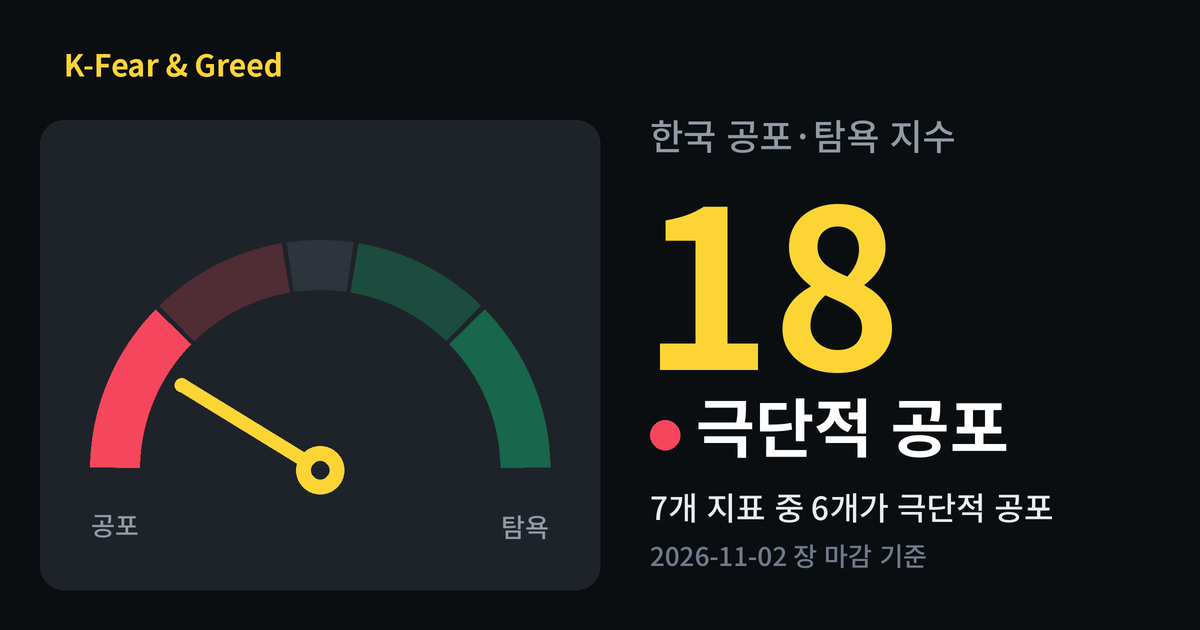
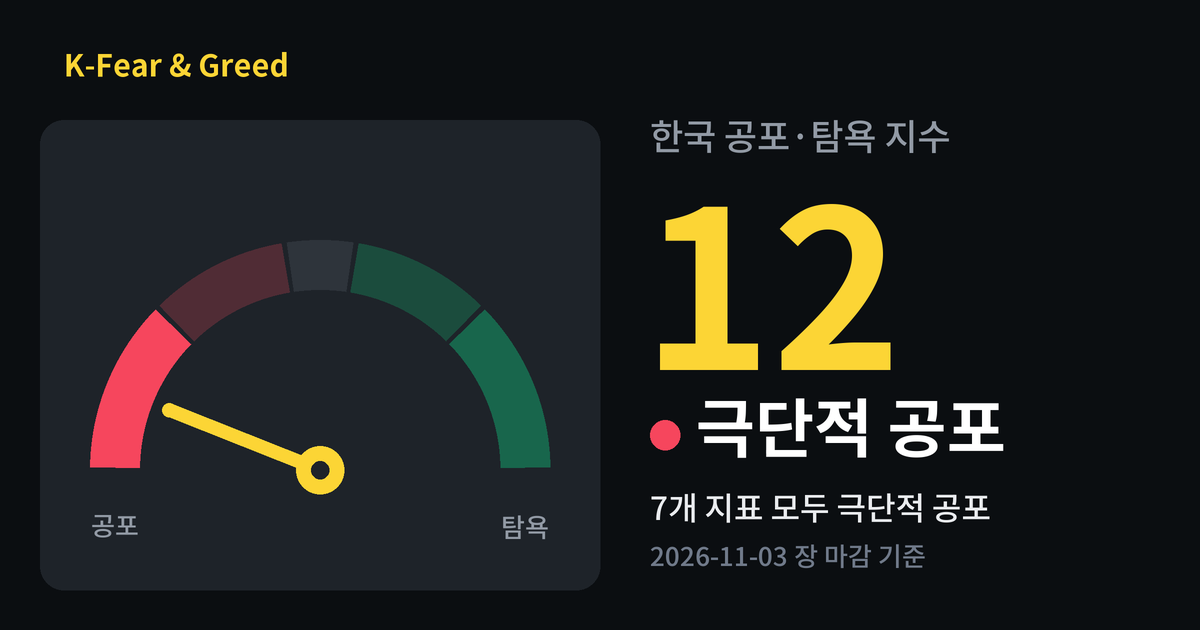
시장 변동성: 1000일(약 4년) 평균 대비, 점수도 1000일 순위
장기 평균 대비 현재 변동성을 보려고 기준선과 순위 구간을 모두 1000거래일로 바꿈.
1000일 평균을 2017년부터 쓰려고 KOSPI 지수만 2012년부터 받는다.

diff --git a/docs/index.html b/docs/index.html
@@ -4,21 +4,21 @@
 <meta charset="utf-8">
 <meta name="viewport" content="width=device-width, initial-scale=1">
 <title>한국 공포·탐욕 지수</title>
-<meta name="description" content="2026-11-02 장 마감 기준 · 7개 지표 중 6개가 극단적 공포. 시장 전반에 두려움이 크게 퍼져 있어요.">
+<meta name="description" content="2026-11-03 장 마감 기준 · 7개 지표 모두 극단적 공포. 시장 전반에 두려움이 크게 퍼져 있어요.">
 <!-- 링크 미리보기: 아래 content 값은 build.py 가 매일 오늘 점수로 바꿔 쓴다 -->
 <meta property="og:type" content="website">
 <meta property="og:site_name" content="K-Fear &amp; Greed">
 <meta property="og:locale" content="ko_KR">
-<meta property="og:title" content="한국 공포·탐욕 지수 18점 · 극단적 공포">
-<meta property="og:description" content="2026-11-02 장 마감 기준 · 7개 지표 중 6개가 극단적 공포. 시장 전반에 두려움이 크게 퍼져 있어요.">
+<meta property="og:title" content="한국 공포·탐욕 지수 12점 · 극단적 공포">
+<meta property="og:description" content="2026-11-03 장 마감 기준 · 7개 지표 모두 극단적 공포. 시장 전반에 두려움이 크게 퍼져 있어요.">
 <meta property="og:url" content="https://korea-feargreed.vercel.app/">
-<meta property="og:image" content="https://korea-feargreed.vercel.app/og.png?v=20261102">
+<meta property="og:image" content="https://korea-feargreed.vercel.app/og.png?v=20261103">
 <meta property="og:image:width" content="1200">
 <meta property="og:image:height" content="630">
 <meta name="twitter:card" content="summary_large_image">
-<meta name="twitter:title" content="한국 공포·탐욕 지수 18점 · 극단적 공포">
-<meta name="twitter:description" content="2026-11-02 장 마감 기준 · 7개 지표 중 6개가 극단적 공포. 시장 전반에 두려움이 크게 퍼져 있어요.">
-<meta name="twitter:image" content="https://korea-feargreed.vercel.app/og.png?v=20261102">
+<meta name="twitter:title" content="한국 공포·탐욕 지수 12점 · 극단적 공포">
+<meta name="twitter:description" content="2026-11-03 장 마감 기준 · 7개 지표 모두 극단적 공포. 시장 전반에 두려움이 크게 퍼져 있어요.">
+<meta name="twitter:image" content="https://korea-feargreed.vercel.app/og.png?v=20261103">
 <link rel="icon" href="favicon.svg" type="image/svg+xml">
 <link rel="icon" href="favicon-32.png" type="image/png" sizes="32x32">
 <link rel="apple-touch-icon" href="apple-touch-icon.png">
@@ -210,7 +210,7 @@ footer .in { max-width: 1280px; margin: 0 auto; padding: 24px 16px 40px; font-si
     <h2>계산 방법</h2>
     <ol>
       <li>각 지표의 원시값을 매일 계산합니다. 값이 클수록 탐욕이 되도록 방향을 맞춥니다(변동성·신용 스프레드는 반대).</li>
-      <li>최근 1년(252거래일) 안에서 오늘 값이 몇 번째 백분위인지를 0~100점으로 씁니다.</li>
+      <li>최근 1년(252거래일) 안에서 오늘 값이 몇 번째 백분위인지를 0~100점으로 씁니다. 시장 변동성만은 장기 평균과 비교하려고 약 4년(1000거래일)을 기준으로 합니다.</li>
       <li>지표 점수를 똑같은 비중으로 평균한 값이 최종 지수입니다.</li>
       <li>평일 16:30~19:00 사이(장 마감 반영)와 다음 날 08:30~08:45 사이(회사채 금리 반영 후 확정)에 갱신됩니다.</li>
     </ol>

diff --git a/kfg/indicators.py b/kfg/indicators.py
@@ -7,6 +7,9 @@ import pandas as pd
 
 WINDOW = 252  # 점수 환산에 쓰는 과거 구간(약 1년)
 MIN_PERIODS = 120
+# 지표별로 다른 구간을 쓰는 경우. 시장 변동성은 "장기 평균 대비 지금"을 보려고 약 4년으로 순위를 매긴다
+WINDOWS = {"volatility": (1000, 250)}
+LONG_VOL_DAYS = 1000
 
 LABELS = [(25, "극단적 공포"), (45, "공포"), (55, "중립"), (75, "탐욕"), (101, "극단적 탐욕")]
 
@@ -15,8 +18,8 @@ def label(score: float) -> str:
     return next(name for cut, name in LABELS if score < cut)
 
 
-def percentile_score(x: pd.Series) -> pd.Series:
-    return x.rolling(WINDOW, min_periods=MIN_PERIODS).rank(pct=True) * 100
+def percentile_score(x: pd.Series, window: int = WINDOW, min_periods: int = MIN_PERIODS) -> pd.Series:
+    return x.rolling(window, min_periods=min_periods).rank(pct=True) * 100
 
 
 def momentum(kospi: pd.Series) -> pd.Series:
@@ -60,9 +63,9 @@ def down_volume_share(close: pd.DataFrame, volume: pd.DataFrame, days: int = 10)
 
 
 def volatility(kospi: pd.Series) -> pd.Series:
-    """KOSPI 20일 실현변동성이 50일 평균보다 몇 % 높은가. (VKOSPI 대용, 높을수록 공포)"""
+    """KOSPI 20일 실현변동성이 1000일(약 4년) 평균보다 몇 % 높은가. (VKOSPI 대용, 높을수록 공포)"""
     vol = np.log(kospi).diff().rolling(20).std() * np.sqrt(252) * 100
-    return (vol / vol.rolling(50).mean() - 1) * 100
+    return (vol / vol.rolling(LONG_VOL_DAYS).mean() - 1) * 100
 
 
 def safe_haven(kospi: pd.Series, bond: pd.Series) -> pd.Series:
@@ -80,7 +83,7 @@ SPECS = {
     "momentum": ("시장 모멘텀", "KOSPI와 125일 이동평균의 괴리율", "%", 1),
     "high_low": ("주가 강도", "52주 신고가 − 신저가 종목 비율 (KOSPI+KOSDAQ)", "%", 1),
     "breadth": ("시장 폭", "McClellan 거래량 합산지수 (상승·하락 종목 거래량)", "", 1),
-    "volatility": ("시장 변동성", "KOSPI 20일 실현변동성의 50일 평균 대비 수준", "%", -1),
+    "volatility": ("시장 변동성", "KOSPI 20일 실현변동성의 1000일(약 4년) 평균 대비 수준", "%", -1),
     "inverse": ("하락 베팅 수요", "인버스 ÷ 레버리지 ETF 거래대금 5일 합계 (풋/콜 비율 대용)", "배", -1),
     "safe_haven": ("안전자산 수요", "KOSPI − 국고채10년 ETF 20일 수익률 차", "%p", 1),
     "credit": ("신용 스프레드", "회사채 3년 AA− 금리 − 국고채 3년 금리 (ECOS)", "%p", -1),
@@ -91,7 +94,7 @@ def score(raw: pd.DataFrame) -> pd.DataFrame:
     out = pd.DataFrame(index=raw.index)
     for key in raw.columns:
         direction = SPECS[key][3]
-        out[key] = percentile_score(raw[key] * direction)
+        out[key] = percentile_score(raw[key] * direction, *WINDOWS.get(key, (WINDOW, MIN_PERIODS)))
     return out
 
 
@@ -120,7 +123,7 @@ def plain_text(key: str, v: float, ctx: dict) -> str:
         trend = "상승" if ctx["breadth_above_avg"] else "하락"
         return f"최근 10일 거래량 상승 {100 - down:.0f}% · 하락 {down:.0f}%, 누적 흐름은 {trend} 우세"
     if key == "volatility":
-        return f"주가 출렁임이 50일 평균보다 {abs(v):.1f}% {_more_less(v, '큼', '작음')}"
+        return f"주가 출렁임이 약 4년 평균의 {1 + v / 100:.1f}배"
     if key == "inverse":
         return f"하락에 거는 ETF 거래가 상승에 거는 ETF의 {v:.2f}배"
     if key == "safe_haven":

diff --git a/build.py b/build.py
@@ -52,7 +52,8 @@ def main():
     load_env()
     t0 = time.time()
     print("지수·ETF 수집")
-    kospi = market_closed_only(fetch.series("KS11")["Close"])
+    # 시장 변동성의 1000일 평균을 2017년부터 쓰려고 KOSPI만 더 일찍부터 받는다(종목 데이터는 2017년부터)
+    kospi = market_closed_only(fetch.series("KS11", "2012-01-01")["Close"])
     bond = fetch.series(BOND_ETF)["Close"].reindex(kospi.index).ffill()
 
     def traded_value(code):
